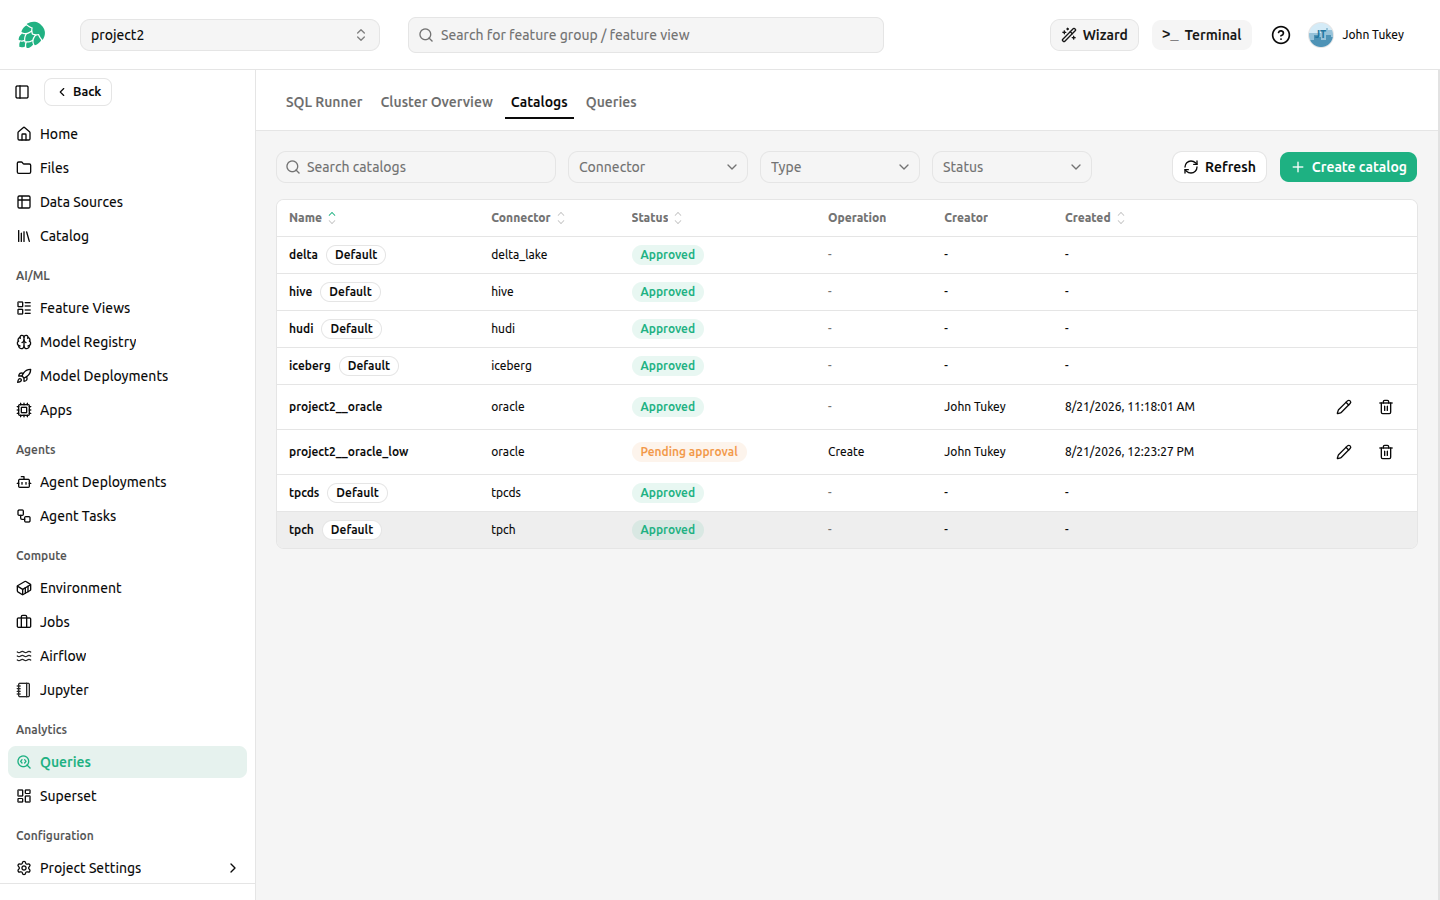
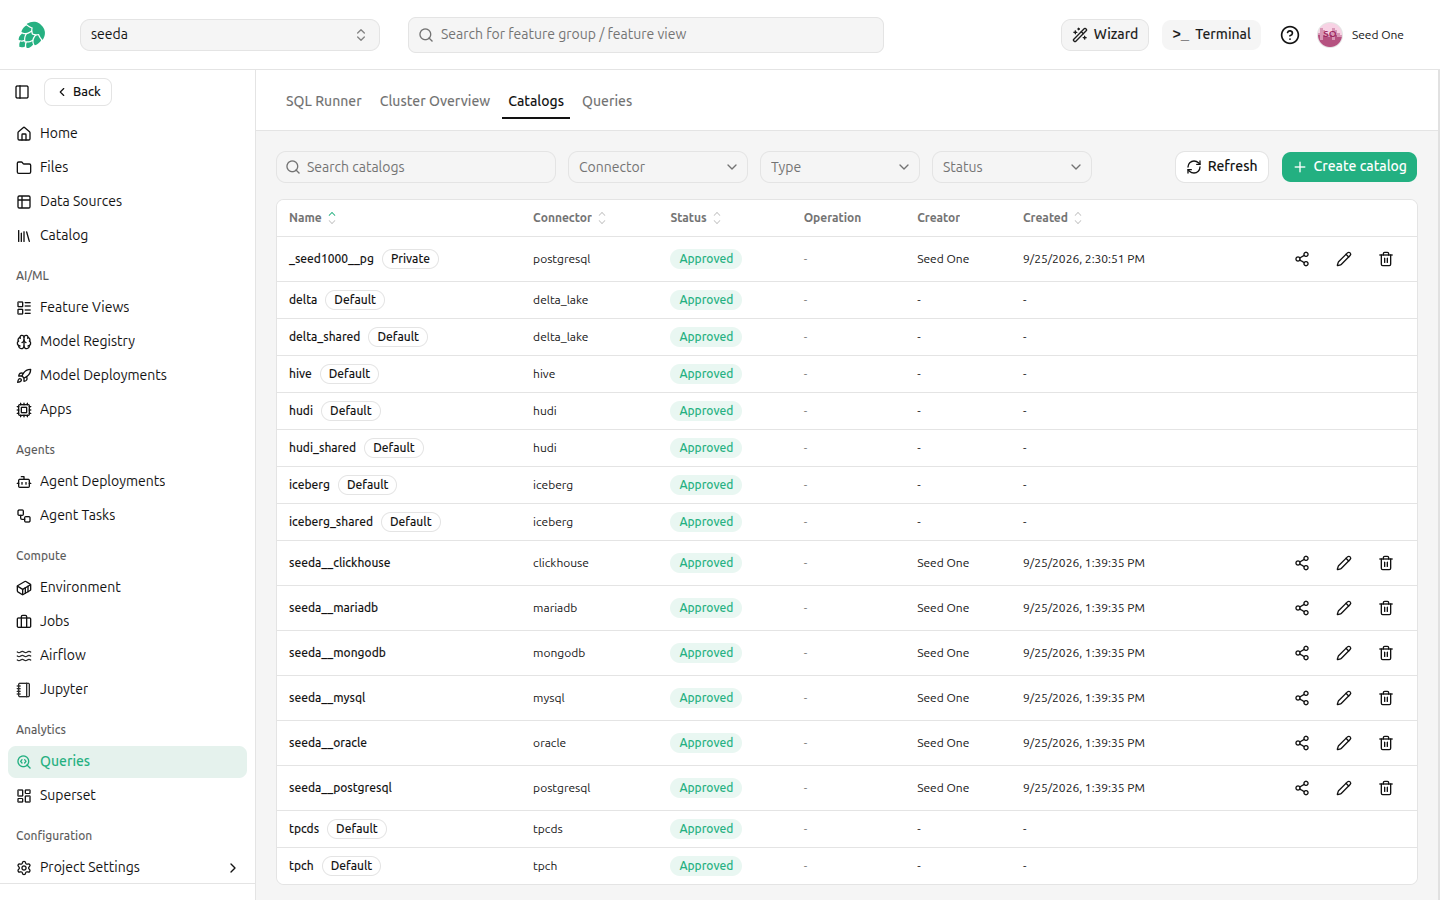
[HWORKS-3206] Share Trino catalogs at catalog, schema, table and column level https://hopsworks.atlassian.net/browse/HWORKS-3206
Trino catalogs and feature groups can now be shared with other
projects. User catalogs are shared at catalog, schema, table or column
level with column masks, and catalogs can be private to a user.
Feature groups shared whole are read through the impersonating
metastore catalogs, and feature groups shared with a subset of their
features through the non-impersonating iceberg_shared, delta_shared
and hudi_shared catalogs.

The documentation adds a Sharing page under Query Engine (Trino) for
catalog shares (levels, column restrictions, masks, statuses, overlap,
revoking, received shares) and feature group shares (which catalog
serves which share, what stays denied, which feature groups are not
queryable). The catalogs guide gains private catalogs and points its
access section at sharing, the mountable secrets guide gains the
account-owned bundles private catalogs use, and the admin guide
describes the backend-owned access-control rules and the shared
feature store catalogs. The default Superset catalog is documented as
delta. Screenshots are from a 5.2 cluster.

diff --git a/docs/user_guides/projects/trino/sharing.md b/docs/user_guides/projects/trino/sharing.md
@@ -1,0 +1,172 @@
+---
+description: Give another project read access to a Trino catalog or a feature group through the query engine, at catalog, schema, table or column level, with masked columns.
+---
+
+# Sharing Catalogs and Feature Groups
+
+The query engine enforces who can read what, so data one project owns is not visible to another project until it is shared.
+Two kinds of share reach the query engine:
+
+- A **catalog share** gives another project read access to one of your Trino catalogs: the whole catalog, one schema, one table, or some columns of a table, optionally with masked values.
+- A **feature group share**, made from the feature store, also makes the shared feature group queryable through the query engine in the receiving project.
+
+A share always grants read access, and always to the receiving project's Data Owners and Data Scientists.
+Changes take effect within seconds, without restarting the query engine.
+
+## Sharing a catalog
+
+A project catalog is shared by a Data Owner of the project, and a private catalog by its owner, from any of their projects.
+A catalog can be shared once it is **Approved**, because a catalog the query engine has not loaded has nothing to share yet.
+
+Click the share icon on the catalog's row in **Query Engine** → **Catalogs** to open its sharing page.
+The page lists every share of the catalog, what each one covers, and whether it is live.
+
+<figure>
+  <img src="../../../../assets/images/guides/trino/catalog-sharing-page.png" alt="Sharing page of a catalog" />
+  <figcaption>A catalog shared whole with one project, and one table with two of its three columns, one of them masked, with another</figcaption>
+</figure>
+
+Click **Share**, choose the project, and choose what to share:
+
+- **The whole catalog**: every schema and table in it, including ones created later.
+- **One schema**: every table in that schema, including ones created later.
+- **One table**: that table only, optionally narrowed to some of its columns.
+
+<figure>
+  <img src="../../../../assets/images/guides/trino/share-dialog-table.png" alt="Sharing one table with some columns" />
+  <figcaption>Sharing one table, with one column left out and one column masked</figcaption>
+</figure>
+
+The schemas, tables and columns offered are the ones you can see in the catalog yourself, read through the catalog's own connection.
+
+### Sharing some columns of a table
+
+Check **Share only some columns, or mask them** to choose the columns of a table share.
+An unchecked column cannot be read by the receiving project, and a query that selects it, or selects `*`, is refused.
+The table's other ways of revealing a column are closed too: the connector's hidden columns, such as `$path` and `$partition`, and the table's metadata tables, such as `<table>$partitions`, are denied on a column-restricted share, because the path and partition values of a table partitioned on an unshared column carry that column's values.
+
+The query engine denies the columns that were unchecked when the share was saved.
+A column added to the table later is therefore readable until you save the share again.
+The sharing page flags such a table with the new column names, and **Exclude them** saves the share again with the new columns left unshared.
+
+<figure>
+  <img src="../../../../assets/images/guides/trino/share-edit-columns.png" alt="Editing the columns of a share" />
+  <figcaption>Editing a column share: two columns shared, one of them masked, and one left out</figcaption>
+</figure>
+
+### Masking a column
+
+A shared column can carry a mask, which replaces the value the receiving project reads.
+A mask is one SQL expression over the row, for example `'***'` or `regexp_replace(email, '.+@', '***@')`, and it must return the column's own type.
+
+A mask runs as the person querying, not as you, so it can use only what they can read: the checked columns of the same table.
+A mask that refers to an unchecked column, or to another table, is refused when you save the share.
+It cannot contain `;` or a comment, and it is limited to 2000 characters.
+The mask is checked against the table when the share is saved, so an expression the query engine cannot evaluate is reported then rather than when someone queries the table.
+
+<figure>
+  <img src="../../../../assets/images/guides/trino/query-masked-column.png" alt="Querying a masked column" />
+  <figcaption>The receiving project reads the masked column as <code>***</code></figcaption>
+</figure>
+
+You always read your own catalog unmasked.
+
+### Shares that overlap
+
+A project can receive several shares of one catalog, for example the whole schema and, separately, one of its tables with some columns left out.
+The narrowest share decides for the object it names: the table share above applies to that table whatever the schema share allows, so its column restrictions and masks hold.
+The sharing page notes which broader shares are overridden, and for which objects.
+
+### The status of a share
+
+A share is live once the query engine has loaded the rules that include it, which takes a few seconds.
+The sharing page shows where each share stands and refreshes itself while a change is being applied.
+
+| Status | Meaning |
+| --- | --- |
+| Applying | Saved, and being made live. |
+| Active | Live: the receiving project can read what it covers. |
+| Revoking | Being removed. The receiving project loses access when this finishes. |
+| Failed | Could not be made live. The status carries the reason; share it again to retry. |
+
+### Objects that no longer exist
+
+A share names a schema or a table, and the object it names may be dropped at the source later.
+The share stays, and the sharing page marks it **Not found**.
+If an object with the same name is created again, the share applies to it, so revoke a share whose object is gone for good.
+
+### Revoking a share
+
+Click the delete icon on a share to revoke it.
+The receiving project loses access as soon as the revoke is live, within seconds, and the share disappears from the page once it is.
+The same object cannot be shared with the same project again until the revoke has finished.
+
+Deleting a catalog revokes all of its shares at once, and so does deleting the receiving project.
+
+### Shares your project received
+
+The **Catalogs** tab lists, under **Shared with this project**, every catalog share your project received, who it comes from, and what it covers.
+A shared catalog is queried by its own name, like any other catalog, with the SQL runner or any Trino client.
+
+<figure>
+  <img src="../../../../assets/images/guides/trino/received-shares.png" alt="Shares received by a project" />
+  <figcaption>A project catalog shared whole, and one table of another user's private catalog</figcaption>
+</figure>
+
+## Sharing feature groups through the query engine
+
+A feature group shared with another project, as described in [Sharing a feature group with selected features][sharing-a-feature-group-with-selected-features], is also queryable by that project through the query engine.
+Where it is read from depends on whether the whole feature group was shared or a subset of its features.
+
+| Shared | Catalog | Readable |
+| --- | --- | --- |
+| The whole feature group, or the whole feature store | The catalog named after the feature group's format: `delta`, `hudi`, `iceberg` or `hive` | Every feature |
+| A subset of the features | The shared catalog of its format: `delta_shared`, `hudi_shared` or `iceberg_shared` | The shared features only |
+
+The schema is the owning project's feature store, `<project>_featurestore`, and the table is `<feature group>_<version>`.
+
+The share dialog says which catalog the other project will read from, or that the share is not queryable through the query engine.
+
+<figure>
+  <img src="../../../../assets/images/guides/trino/fg-share-subset.png" alt="Sharing a subset of a feature group" />
+  <figcaption>A subset of the features is read through <code>delta_shared</code></figcaption>
+</figure>
+
+### A subset of the features
+
+A subset share is read through the shared catalog of the feature group's format.
+The primary key and the event time are always shared, and the receiving project reads the other shared features alongside them.
+
+```sql
+SELECT datetime, cc_num, category, amount
+FROM delta_shared.fraud_featurestore.transactions_1;
+```
+
+<figure>
+  <img src="../../../../assets/images/guides/trino/query-shared-features.png" alt="Querying a subset share" />
+  <figcaption>Only the shared features are listed, and the preview selects them by name</figcaption>
+</figure>
+
+Everything else in the table is denied: the unshared features, the connector's hidden columns such as `$path`, and the table's metadata tables such as `transactions_1$history`.
+A query that selects an unshared feature, or selects `*`, is refused.
+
+<figure>
+  <img src="../../../../assets/images/guides/trino/query-unshared-feature-denied.png" alt="Querying an unshared feature" />
+  <figcaption>Selecting a feature that was not shared is refused</figcaption>
+</figure>
+
+The shared catalogs are visible only to projects that received a subset share, and a project sees only the feature groups shared with it there.
+A subset share is not readable through the catalog named after the format, and a whole share is not readable through the shared catalog.
+
+Adding features to a shared feature group does not widen the share: a new feature stays unreadable by the receiving project until you share it.
+Unsharing the feature group, or deleting it, removes access within seconds.
+
+### Feature groups that are not queryable
+
+Two kinds of feature group cannot be read through the query engine by the receiving project:
+
+- A feature group on an external data source, whether shared whole or in part, because its data does not live in the feature store's tables.
+- A subset of a feature group stored as a plain Hive table, without Delta, Hudi or Iceberg, because there is no shared catalog for that format.
+  Such a feature group shared whole is read through the `hive` catalog.
+
+The share dialog says so for these feature groups, and the feature group remains shared and readable through the feature store APIs.

diff --git a/docs/user_guides/projects/trino/catalogs.md b/docs/user_guides/projects/trino/catalogs.md
@@ -8,13 +8,21 @@ A Trino catalog makes an external data source queryable from the query engine.
 Each catalog names a Trino connector and the properties that connector needs to reach the source, such as a connection URL and credentials.
 Once a catalog is live, its databases and tables can be queried from the SQL runner alongside your feature groups.
 
-Navigate to **Query Engine** → **Catalogs** in your project to see the project's catalogs together with the cluster's shared default catalogs.
-A catalog you create is named `<project>__<name>` and is queryable only inside your own project.
-Only a project Data Owner can create, edit or delete one.
+Navigate to **Query Engine** → **Catalogs** in your project to see the project's catalogs, your own private catalogs, and the cluster's shared default catalogs.
+A catalog belongs either to the project or to you:
+
+- A **project catalog** is named `<project>__<name>` and is queryable inside the project.
+  The project's Data Owners create, edit, delete and share it.
+- A **private catalog** is named `_<username>__<name>` and follows you into every project you are a member of.
+  Only you edit, delete or share it.
+  See [Private catalogs][private-catalogs].
+
+Only a Data Owner of the current project can create a catalog of either kind.
+A catalog is queryable outside its own project, or outside your projects for a private one, only once it is shared, as described in [Sharing Catalogs and Feature Groups][sharing-catalogs-and-feature-groups].
 
 <figure>
   <img src="../../../../assets/images/guides/trino/catalogs-list.png" alt="Catalogs list" />
-  <figcaption>The project's catalogs alongside the cluster's shared default catalogs</figcaption>
+  <figcaption>The project's catalogs, a private catalog, and the cluster's shared default catalogs</figcaption>
 </figure>
 
 A catalog change is recorded immediately, but it reaches the query engine only when the engine restarts, because Trino reads catalogs at startup.
@@ -92,6 +100,29 @@ If a catalog needs to outlive your account, have someone recreate it under their
 
     Create the secret by typing or pasting the value as text when you intend to reference it from a catalog.
     For a credential that is naturally a file, use a mountable secret instead.
+
+## Private catalogs
+
+Choose **Private** as the owner when creating a catalog to make it yours rather than the project's.
+The name prefix becomes `_<username>__`, for example `_meb10000__sales`, and the catalog is listed in every project you are a member of.
+
+<figure>
+  <img src="../../../../assets/images/guides/trino/create-private-catalog.png" alt="Creating a private catalog" />
+  <figcaption>A private catalog takes your username as its prefix and can reference only your own secrets</figcaption>
+</figure>
+
+A private catalog differs from a project catalog in what it can reach and who controls it:
+
+- It can reference only your own Hopsworks secrets and your own mountable secrets, which you manage under **Account Settings** → **Secrets**.
+  A project's mountable secrets are not available to it, because the catalog would carry them into every other project you are a member of.
+  See [Mountable secrets for private catalogs][mountable-secrets-for-private-catalogs].
+- It cannot be created from a data source, because a data source's credential belongs to the project.
+  Enter the connection details yourself instead.
+- Only you can edit, delete or share it, from any of your projects and whatever your role there, so being made a Data Scientist in a project does not lock you out of your own catalogs.
+  Other members of your projects cannot query it unless you share it with their project.
+- The number of private catalogs you can own has the same limit as a project's catalogs, ten by default.
+
+When your account is deleted, your private catalogs are marked for removal and stop being queryable at once, and their shares are removed with them.
 
 ## Testing the connection
 
@@ -171,9 +202,14 @@ Testing the connection before saving catches most of these earlier.
 
 ## Who can query a catalog
 
-Access to a user-created catalog is granted at the catalog level per project: a project's Data Owners can read and write, and Data Scientists can read.
-There is no per-schema or per-table configuration for these catalogs.
-To limit what a catalog exposes, scope the database user in the connection credentials at the source, since the query engine reads the external system as that user and can only ever see what those credentials allow.
+Inside the project that owns a project catalog, its Data Owners can read and write, and its Data Scientists can read.
+A private catalog can be read and written by you, from any of your projects.
+
+Other projects can read a catalog only through a share, which grants read access to the whole catalog, one schema, one table, or some columns of a table, optionally with masked values.
+See [Sharing Catalogs and Feature Groups][sharing-catalogs-and-feature-groups].
+
+The query engine reads the external system as the database user in the connection credentials, so no share can expose more than those credentials allow.
+Scoping that database user at the source remains the strongest limit on what a catalog can reach.
 
 ## Creating a catalog from the Python client
 

diff --git a/docs/setup_installation/admin/trino.md b/docs/setup_installation/admin/trino.md
@@ -224,6 +224,38 @@ A catalog whose `${HOPSWORKS_SECRET:<name>}` reference no longer resolves cannot
 The repair reports it, leaves any file it already has in place, because that copy resolved when it was approved and still works, and carries on with every other catalog.
 Its owner has to repoint the reference at an existing secret.
 
+## Access control and sharing
+
+The query engine decides who can read what with Trino's file-based access control, from a rules file published into the Trino files store as `access-control/rules.json`.
+Hopsworks owns that file and rebuilds it whenever a share changes, and on a schedule every five minutes by default.
+
+The file is composed from two parts:
+
+- The base policy, from the Helm value `trino.accessControl.rules`, which the chart renders into the ConfigMap `hopsworks-trino-access-control-base`.
+  It grants each project its own catalogs and feature store, each user their private catalogs, and administrators everything.
+- One set of rules per share, for [catalog shares and feature group shares][sharing-catalogs-and-feature-groups].
+  A share names the receiving project's existing `<project>__data_owner` and `<project>__data_scientist` groups, so sharing never changes the group file.
+
+Change the base policy through the Helm value and an upgrade.
+An edit to the published `rules.json` is overwritten by the next rebuild, within minutes.
+
+Every rebuilt file is validated before it is published, and a file that fails validation is not published: the shares that caused it are marked **Failed** with the reason, and the file in place stays as it was.
+After publishing, Hopsworks checks that the query engine still answers once it has re-read the file, and restores the last file that worked if it does not, because Trino refuses every query while its rules file is unreadable.
+
+### The shared feature store catalogs
+
+The chart ships two kinds of catalog over the feature store:
+
+- `delta`, `hudi`, `iceberg` and `hive` impersonate the querying user, so HopsFS permissions apply on top of the access-control rules.
+  They serve a project's own feature groups, and feature groups or feature stores shared whole, which HopsFS grants the receiving project.
+- `delta_shared`, `hudi_shared` and `iceberg_shared` do not impersonate.
+  They read HopsFS as the `trino` user, which is a HopsFS superuser, because a feature group shared with a subset of its features grants the receiving project no HopsFS access.
+
+For the second kind the access-control rules are the only gate.
+The base policy grants nobody access to them, and Hopsworks adds a rule per subset share that allows the receiving project the shared features of that one table and denies the rest.
+They are read-only at the connector as well, so no rule can let a query write through them.
+Do not add rules for these catalogs to the base policy: any rule that reaches one of them reads every project's feature store.
+
 ## Credential files a project supplies
 
 A connector that authenticates with a file, such as an Oracle wallet or a Java keystore, cannot be served by a catalog property alone.
@@ -311,7 +343,8 @@ Trino behavior can be customized through cluster configuration variables. To mod
 **Available Variables:**
 
 - **trino_enabled**: Enable or disable Trino cluster-wide (default: `true`)
-- **trino_default_catalog**: Default catalog used for Superset queries (default: `hive`)
+- **trino_default_catalog**: Default catalog of the Superset database connections created for new project members (default: `delta`).
+  Connections created before a change keep the catalog they were created with.
 - **trino_test_coordinator_enabled**: Enable the optional test coordinator that backs the "Test connection" action for user-created catalogs (default: `true`)
 - **trino_catalog_reconcile_enabled**: Rebuild the user-catalog Secrets from the database on a schedule, for a cluster that has lost them (default: `false`, see [Recovering catalog files lost from the mount][recovering-catalog-files-lost-from-the-mount])
 - **trino_catalog_max_per_project**: Catalogs a *newly created* project may create (default: `10`).

diff --git a/docs/user_guides/projects/mountable_secrets/mountable_secrets.md b/docs/user_guides/projects/mountable_secrets/mountable_secrets.md
@@ -12,8 +12,9 @@ A **mountable secret** is a named bundle of files that belongs to your project.
 You upload the files once, then refer to the bundle by name from a catalog property, and Hopsworks substitutes the real location when the catalog is written for Trino.
 The files are stored where project members cannot read or write them directly, and a catalog can only ever reach its own project's bundles.
 
-Only a project Data Owner can list, create or delete mountable secrets.
+Only a project Data Owner can list, create or delete a project's mountable secrets.
 Through the API the same endpoints need an API key with the `MOUNTABLE_SECRET` scope.
+Private catalogs use mountable secrets that belong to your account instead, described in [Mountable secrets for private catalogs][mountable-secrets-for-private-catalogs].
 
 ## Creating a bundle
 
@@ -135,6 +136,27 @@ connection-password=${HOPSWORKS_SECRET:oracle_password}
 
 Take the host, port and `service_name` from the alias's entry in the wallet's `tnsnames.ora`, and drop `retry_delay`, which means nothing once `retry_count` is zero.
 A catalog can keep this form, and doing so records which consumer group it connects to instead of leaving it to an alias name.
+
+## Mountable secrets for private catalogs
+
+A [private catalog][private-catalogs] follows its owner into every project they are a member of, so it cannot reference a project's bundles: it would carry them into the owner's other projects.
+It references bundles that belong to your account instead.
+
+Open **Account Settings**, then **Secrets**, and use the **Mountable secrets** section below your secrets.
+Creating, listing and deleting work as for a project's bundles, and the same limits apply, counted per account rather than per project.
+
+<figure>
+  <img src="../../../../assets/images/guides/mountable_secrets/account-mountable-secrets.png" alt="Mountable secrets on the account Secrets page" />
+  <figcaption>Bundles that belong to your account, for use by your private catalogs from any project</figcaption>
+</figure>
+
+A private catalog references your bundles with the same `${HOPSWORKS_MOUNT:<bundle>}` forms, and a project catalog cannot reference them.
+Names, sizes, hashes and timestamps of your bundles are visible to you alone.
+The same caution applies as for a project's bundles: where the cluster runs a Trino test coordinator, every mountable secret on it is readable from that coordinator.
+
+Through the API, your account's bundles are at `/users/mountable-secrets`, with the same operations as a project's and an API key with the `MOUNTABLE_SECRET` scope.
+
+When your account is deleted, your bundles are deleted with it.
 
 ## When the feature is unavailable
 

diff --git a/docs/setup_installation/admin/superset.md b/docs/setup_installation/admin/superset.md
@@ -179,8 +179,10 @@ Navigate to **Cluster Settings** → **Configuration** and search for `superset`
 #### trino_default_catalog
 
 - **Description**: Default catalog to use for the Offline Feature Store Connection
-- **Default**: `hive`
+- **Default**: `delta`
 - **Values**: `hive`, `delta`, `iceberg`, and `hudi`.
+
+The value is applied when a member's connection is created, so connections created before a change keep the catalog they were created with.
 
 Trino connections are created with multi-catalog enabled (Superset's **Allow changing catalogs** option), so users are not limited to this default.
 They select the catalog matching their table format from the **Catalog** dropdown in SQL Lab or when adding a dataset.

diff --git a/docs/user_guides/projects/superset/superset.md b/docs/user_guides/projects/superset/superset.md
@@ -84,7 +84,7 @@ SQL Lab is an interactive SQL query interface for exploring your feature data.
 </figure>
 
 For the Trino connection, SQL Lab shows a **Catalog** dropdown between **Database** and **Schema**.
-The dropdown appears because the connection has *Allow changing catalogs* enabled, and it lists every Trino catalog (`hive`, `delta`, `iceberg`, `hudi`).
+The dropdown appears because the connection has *Allow changing catalogs* enabled, and it lists every Trino catalog you can read (`hive`, `delta`, `iceberg`, `hudi`, your project's catalogs, and catalogs shared with your project).
 Selecting the catalog that matches your table format lets you query the table without prefixing the catalog in the SQL.
 
 <figure>
